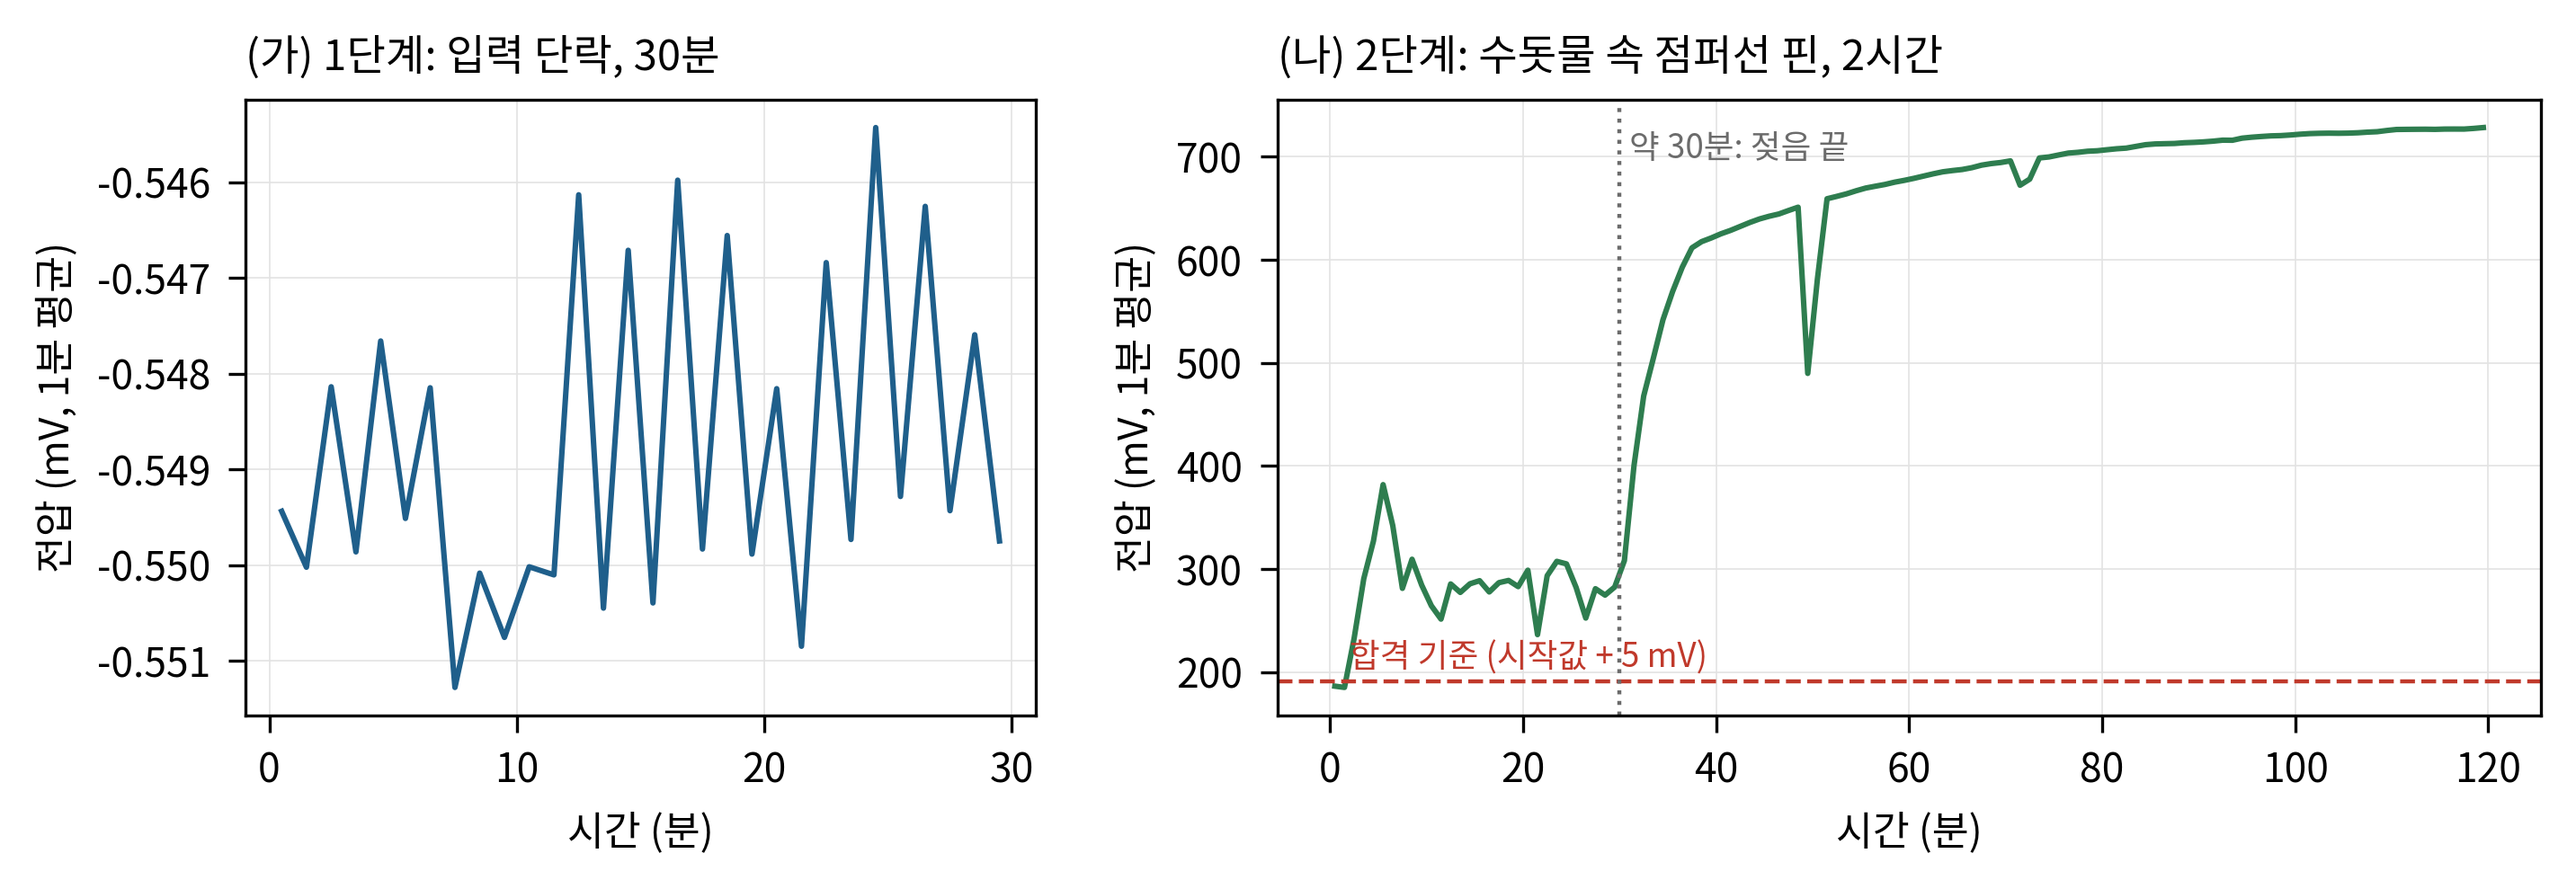
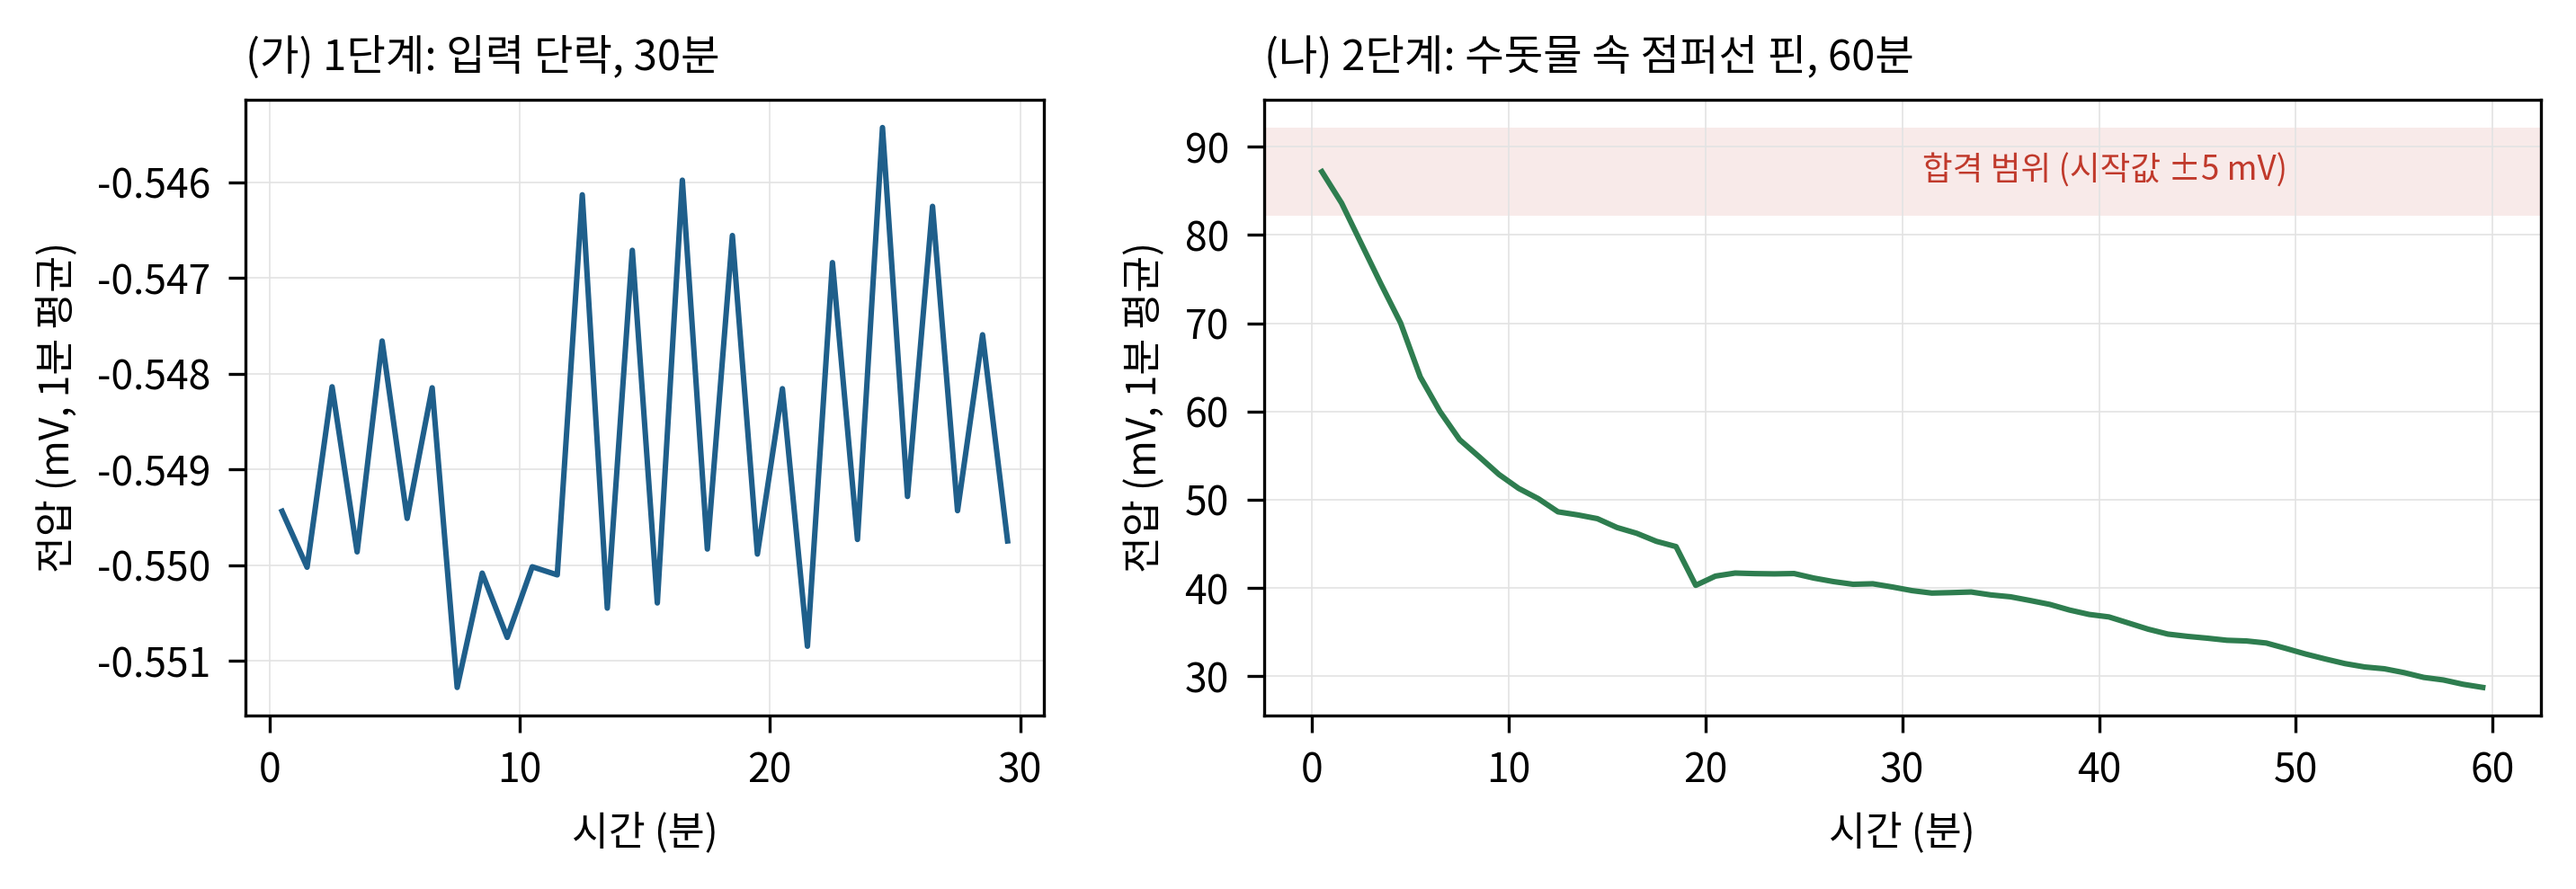
2단계를 10-12 재측정(60분)으로 교체 — 10-07 기록은 절전 영향(측정자 확인)으로 미사용, 그림4(나) 다시 그림

diff --git a/report/figs.py b/report/figs.py
@@ -117,17 +117,17 @@ def fig_band():
 # ── 그림3: 1단계·2단계 ───────────────────────────────
 def fig_stage():
     s1 = minute_means(load_bench("dc_shorted_30min_v2.csv"))
-    s2 = minute_means(load_bench("stage2_electrode_2h.csv"))
+    # 2단계는 2026-10-12 재측정(60분). 10-07 2시간 기록은 절전 때문에 쓰지 않는다(CLAUDE.md 0절)
+    s2 = minute_means(load_bench("stage2_repeat_1012/정상.csv"))
     fig, (a, b) = plt.subplots(1, 2, figsize=(7.2, 2.5), gridspec_kw={"width_ratios": [1, 1.6]})
     a.plot(np.arange(len(s1)) + 0.5, s1, color=BLUE, lw=1.1)
     a.set_title("(가) 1단계: 입력 단락, 30분", loc="left")
     a.set_xlabel("시간 (분)"); a.set_ylabel("전압 (mV, 1분 평균)")
     a.ticklabel_format(axis="y", useOffset=False)
     b.plot(np.arange(len(s2)) + 0.5, s2, color=GREEN, lw=1.1)
-    b.axhline(s2[0] + 5, color=RED, ls="--", lw=0.8)
-    b.text(2, s2[0] + 18, "합격 기준 (시작값 + 5 mV)", color=RED, fontsize=6.6)
-    b.axvline(30, color=GRAY, ls=":", lw=0.8); b.text(31, s2.max() - 30, "약 30분: 젖음 끝", fontsize=6.6, color=GRAY)
-    b.set_title("(나) 2단계: 수돗물 속 점퍼선 핀, 2시간", loc="left")
+    b.axhspan(s2[0] - 5, s2[0] + 5, color=RED, alpha=0.10, lw=0)
+    b.text(31, s2[0] - 1, "합격 범위 (시작값 ±5 mV)", color=RED, fontsize=6.6)
+    b.set_title("(나) 2단계: 수돗물 속 점퍼선 핀, 60분", loc="left")
     b.set_xlabel("시간 (분)"); b.set_ylabel("전압 (mV, 1분 평균)")
     for x in (a, b):
         x.grid(lw=0.3, color="#e3e3e3")

diff --git a/report/hwpx_edit.py b/report/hwpx_edit.py
@@ -20,7 +20,9 @@ report = []
 for e in edits:
     old, new = esc(e["old"]), esc(e["new"])
     # <hp:t> 하나 안에 old 가 통째로 있어야 한다
-    hits = [m for m in re.finditer(r"<hp:t>([^<]*)</hp:t>", xml_s) if old in m.group(1)]
+    # "exact": true 면 <hp:t> 내용 전체가 old 와 같을 때만 바꾼다(표 칸처럼 짧은 글자용)
+    hits = [m for m in re.finditer(r"<hp:t>([^<]*)</hp:t>", xml_s)
+            if (m.group(1) == old if e.get("exact") else old in m.group(1))]
     want = e.get("count", 1)
     if len(hits) != want:
         report.append(f"[실패] {len(hits)}곳(기대 {want}): {e['old'][:40]}")

diff --git a/CLAUDE.md b/CLAUDE.md
@@ -546,6 +546,10 @@ preprocess → 738창(정상 686, 자극 52). train `--mode 특징 --task 정상
 식물 기록 `live_20260915_070020.csv` 는 약 2시간(1,864,000 표본)이고 보고서 분석은 앞 2109초다.
 **파이에서 새로 잰 파일은 저장소에 옮겨 커밋해야 공개된 것이다.**
 
+> ⛔ **2026-10-12 측정자 확인: 10-07 2단계 2시간 기록(`stage2_electrode_2h.csv`)은 측정 중 절전 기능이 작동해
+> 기준점이 크게 흔들린 것이다. 보고서에서 빼고 아래 재측정(60분)으로 바꿨다.** 처음 30분의 큰 오르내림·30~38분 급상승·
+> 546 mV·"젖는 과정" 해석은 이 기록에서 나온 것이라 함께 뺐다. 기록에 표본 빈 곳은 없었으니 절전이 기록을 끊은 게 아니라
+> 기준점(접지·전원)을 흔든 것으로 본다(해석).
 **2026-10-12 2단계 재측정(60분).** 같은 점퍼선 핀 3개·수돗물. 핀은 시작 전 약 12분 이미 물에 잠겨 있었다(앞 11분 기록은
 별도 저장, 사용자가 다시 재자고 함). 결과 — 87.9 → 28.7 mV(60분 −59.2 mV), 처음부터 한 방향으로 서서히 줄어
 (분당 −3.6~−6 → −0.4 mV), **1차의 30~38분 급상승은 나오지 않았다.** 처음 30분 1분 sd 중앙값 0.33 mV(1차 12.29),
